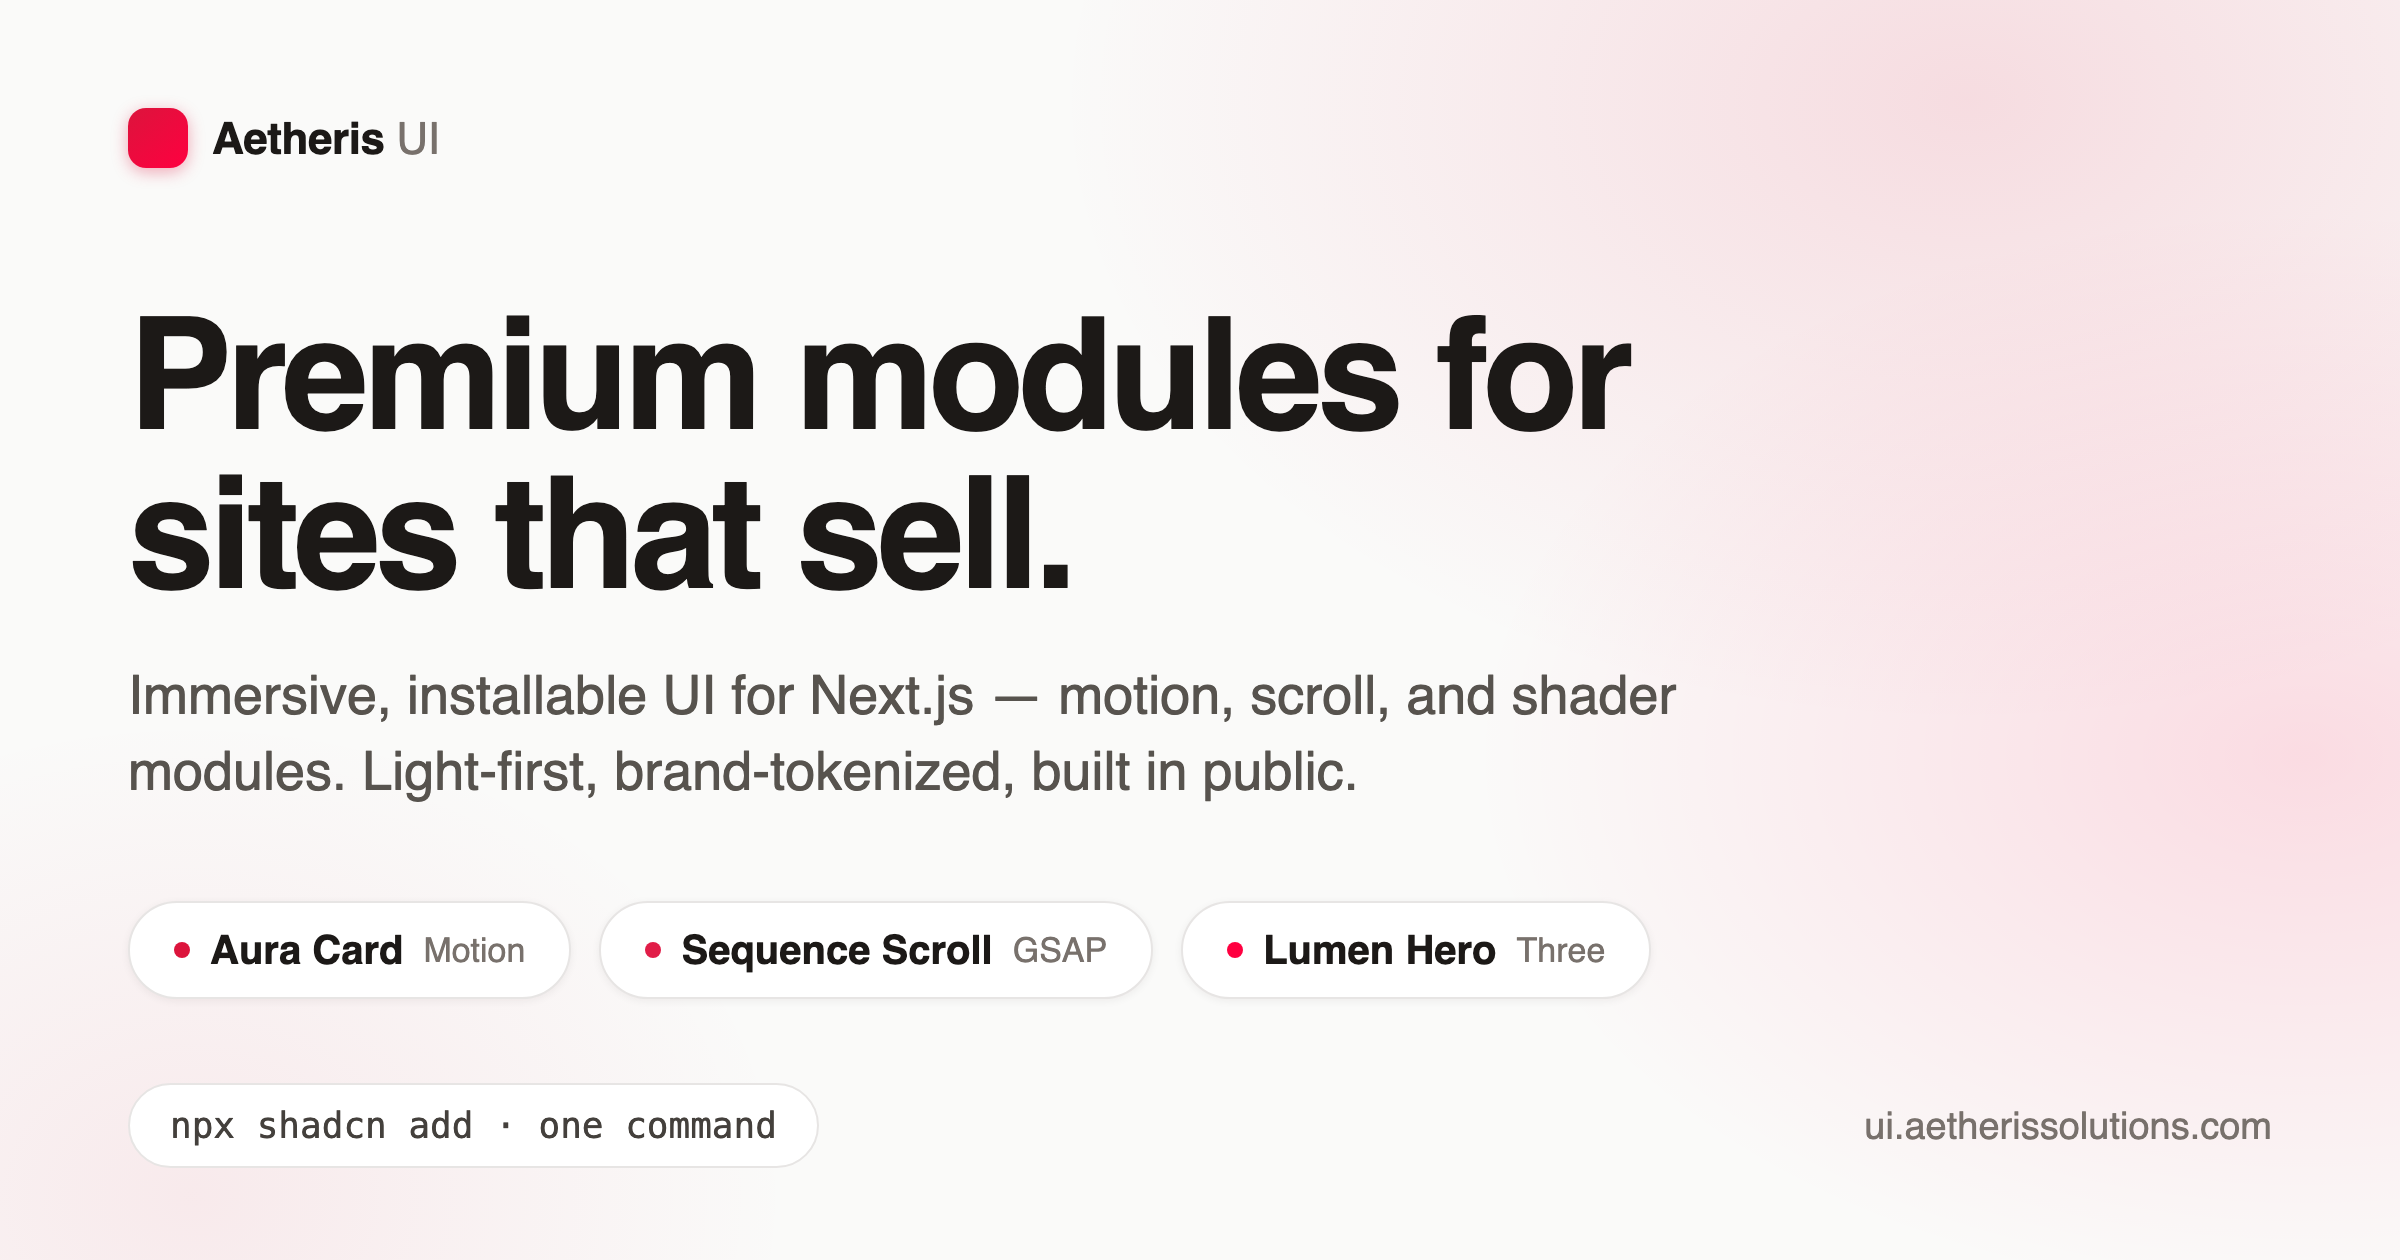
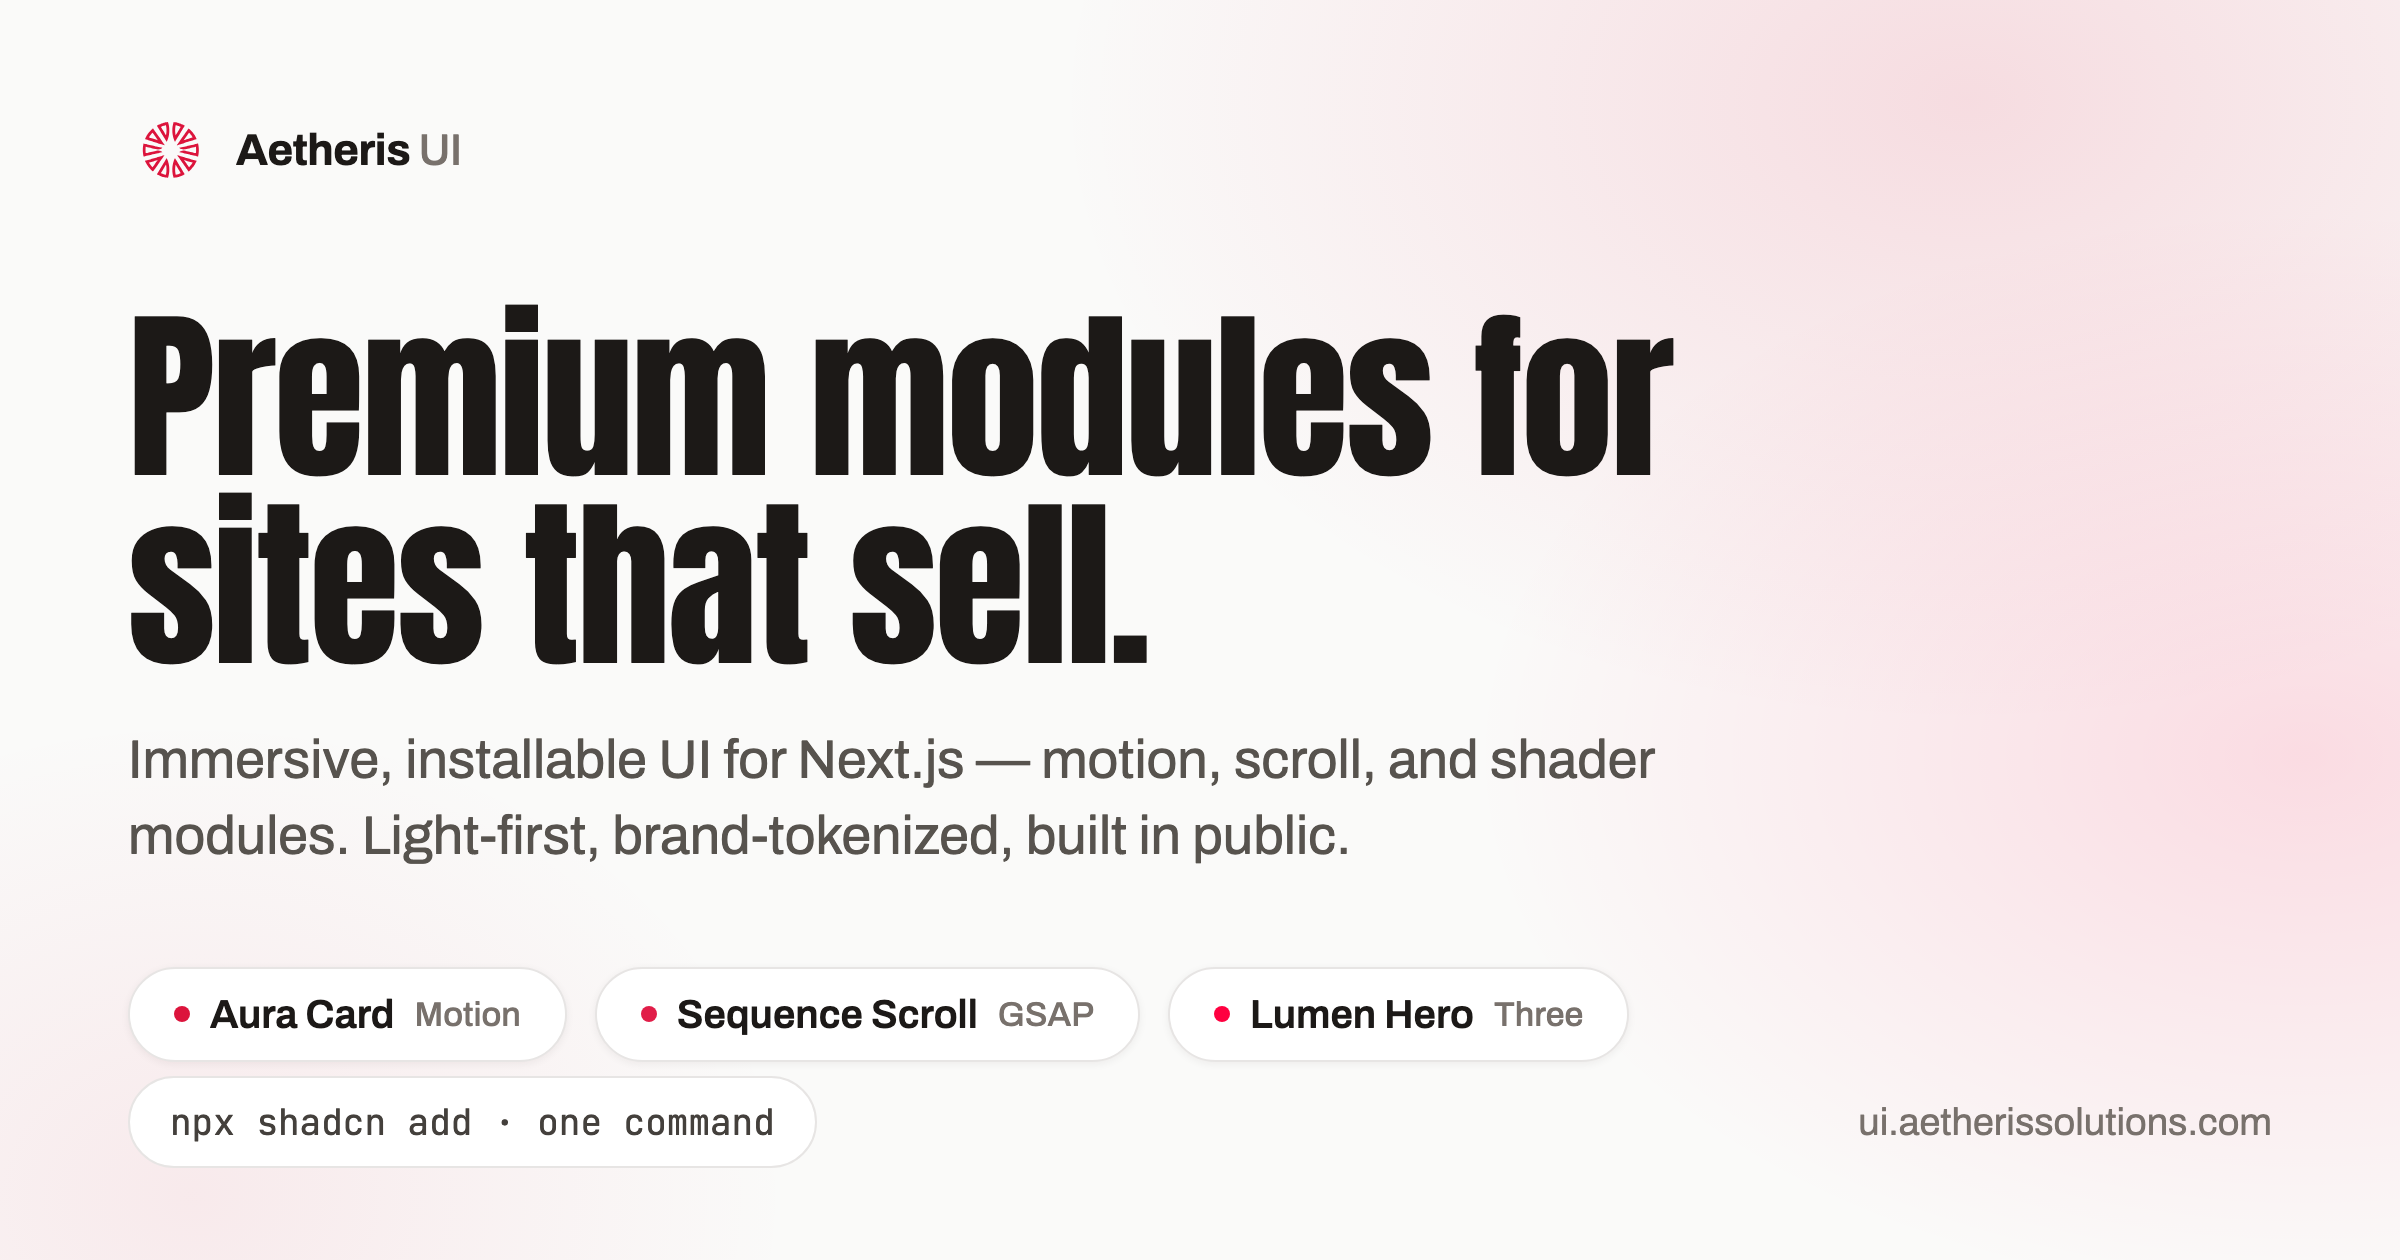
design: real Aetheris mark + brand type stack (Anton / Archivo / JetBrains Mono)
- Logo: the actual aetheris-mark.svg from the Aetheris site replaces the
  placeholder gradient square, CSS-masked so it paints in the live accent token
  instead of carrying a baked-in fill. 26px in the header (the radial petals go
  muddy smaller), 22px in the footer, and it rotates gently on hover.
- Type: adopts the brand's faces — Anton for display, Archivo for body/UI,
  JetBrains Mono for technical labels. Inter is gone.
- .aui-display carries the display voice; headlines and section headings share
  it so the type system reads as one family. Anton is single-weight, so the
  class pins weight 400 — pairing it with a font-weight utility would let the
  browser synthesise a fake bold and smear the condensed forms. Line-height 1.02
  because below ~1.0 Anton's tall caps collide across lines.
- OG card rebuilt on the same mark and faces.

Claude-Session: https://claude.ai/code/session_01SbJ8imE6eMLmkky5AgmYHH

diff --git a/app/globals.css b/app/globals.css
@@ -33,7 +33,8 @@
   --color-accent: var(--aui-accent);
   --color-surface: var(--aui-surface);
   --color-border: var(--aui-border);
-  --font-sans: var(--font-inter);
+  --font-sans: var(--font-body);
+  --font-display: var(--font-display);
   --font-mono: var(--font-mono-brand);
 }
 
@@ -59,7 +60,7 @@
     position: relative;
     background: var(--aui-bg);
     color: var(--aui-fg);
-    font-family: var(--font-inter), ui-sans-serif, system-ui, -apple-system, sans-serif;
+    font-family: var(--font-body), ui-sans-serif, system-ui, -apple-system, sans-serif;
     -webkit-font-smoothing: antialiased;
     text-rendering: optimizeLegibility;
   }
@@ -83,12 +84,6 @@
   ::selection {
     background: color-mix(in oklab, var(--aui-accent) 20%, transparent);
     color: var(--aui-fg);
-  }
-
-  /* Display type: tight tracking is what separates a premium headline from a
-     default one. Matches the Aetheris site's display scale. */
-  h1 {
-    letter-spacing: -0.035em;
   }
 
   h2,
@@ -230,4 +225,16 @@
   text-transform: uppercase;
   letter-spacing: 0.22em;
   color: var(--aui-muted);
+}
+
+/* Display voice — Anton, the Aetheris display face. Single weight by design, so
+   never pair it with a font-weight utility (the browser would synthesise a fake
+   bold and smear the condensed forms). */
+.aui-display {
+  font-family: var(--font-display), ui-sans-serif, system-ui, sans-serif;
+  font-weight: 400;
+  /* Anton's caps are tall and its descenders shallow; below ~1.0 the lines of a
+     two-line headline start to collide. */
+  line-height: 1.02;
+  letter-spacing: -0.012em;
 }

diff --git a/components/site/site-header.tsx b/components/site/site-header.tsx
@@ -29,12 +29,22 @@ export function SiteHeader() {
           className="group flex items-center gap-2.5 rounded-md"
           aria-label="Aetheris UI home"
         >
+          {/* The Aetheris mark, masked so it always paints in the live accent
+              token rather than carrying its own baked-in fill. */}
           <span
             aria-hidden
-            className="h-[18px] w-[18px] rounded-[6px] shadow-sm transition-transform duration-300 group-hover:scale-110"
+            className="h-[26px] w-[26px] shrink-0 transition-transform duration-700 group-hover:rotate-[30deg]"
             style={{
-              background:
-                "linear-gradient(140deg, var(--aui-accent), var(--aui-accent-2))",
+              backgroundColor: "var(--aui-accent)",
+              maskImage: "url(/aetheris-mark.svg)",
+              WebkitMaskImage: "url(/aetheris-mark.svg)",
+              maskSize: "contain",
+              WebkitMaskSize: "contain",
+              maskRepeat: "no-repeat",
+              WebkitMaskRepeat: "no-repeat",
+              maskPosition: "center",
+              WebkitMaskPosition: "center",
+              transitionTimingFunction: "var(--aui-ease)",
             }}
           />
           <span className="text-[15px] font-semibold tracking-tight">

diff --git a/app/page.tsx b/app/page.tsx
@@ -44,7 +44,7 @@ export default function Home() {
               Aetheris UI · component registry
             </span>
 
-            <h1 className="mt-6 text-5xl font-semibold leading-[1.03] tracking-tight md:text-7xl">
+            <h1 className="aui-display mt-6 text-[3.4rem] leading-[0.95] md:text-[5.5rem]">
               Premium modules for sites that sell.
             </h1>
 
@@ -112,7 +112,7 @@ export default function Home() {
       {/* Gallery */}
       <section id="modules" className="mx-auto max-w-6xl px-6 pb-28">
         <div className="flex items-end justify-between border-b pb-5">
-          <h2 className="text-2xl font-semibold tracking-tight">Modules</h2>
+          <h2 className="aui-display text-[1.7rem]">Modules</h2>
           <span className="text-sm" style={{ color: "var(--aui-muted)" }}>
             {items.length} available
           </span>
@@ -157,7 +157,7 @@ function EmptyState() {
           <path d="M12 12l8-4.5M12 12v9M12 12L4 7.5" />
         </svg>
       </div>
-      <h3 className="mt-5 text-lg font-semibold tracking-tight">
+      <h3 className="aui-display mt-5 text-[1.35rem]">
         The catalog is being built
       </h3>
       <p

diff --git a/app/layout.tsx b/app/layout.tsx
@@ -1,11 +1,21 @@
 import type { Metadata } from "next";
-import { Inter, JetBrains_Mono } from "next/font/google";
+import { Anton, Archivo, JetBrains_Mono } from "next/font/google";
 import "./globals.css";
 import { SiteHeader } from "@/components/site/site-header";
 import { SiteFooter } from "@/components/site/site-footer";
 
-const inter = Inter({
-  variable: "--font-inter",
+// The Aetheris brand faces: Anton for display, Archivo for body/UI, JetBrains
+// Mono for technical labels — the same stack the Aetheris site loads.
+const display = Anton({
+  weight: "400",
+  variable: "--font-display",
+  subsets: ["latin"],
+  display: "swap",
+});
+
+const body = Archivo({
+  weight: ["400", "500", "600", "700"],
+  variable: "--font-body",
   subsets: ["latin"],
   display: "swap",
 });
@@ -50,7 +60,7 @@ export default function RootLayout({
   return (
     <html
       lang="en"
-      className={`${inter.variable} ${jetbrainsMono.variable} h-full antialiased`}
+      className={`${display.variable} ${body.variable} ${jetbrainsMono.variable} h-full antialiased`}
     >
       <body className="min-h-full flex flex-col font-sans">
         <SiteHeader />

diff --git a/components/site/site-footer.tsx b/components/site/site-footer.tsx
@@ -9,10 +9,17 @@ export function SiteFooter() {
         <div className="flex items-center gap-2.5">
           <span
             aria-hidden
-            className="h-[18px] w-[18px] rounded-[6px]"
+            className="h-[22px] w-[22px] shrink-0"
             style={{
-              background:
-                "linear-gradient(140deg, var(--aui-accent), var(--aui-accent-2))",
+              backgroundColor: "var(--aui-accent)",
+              maskImage: "url(/aetheris-mark.svg)",
+              WebkitMaskImage: "url(/aetheris-mark.svg)",
+              maskSize: "contain",
+              WebkitMaskSize: "contain",
+              maskRepeat: "no-repeat",
+              WebkitMaskRepeat: "no-repeat",
+              maskPosition: "center",
+              WebkitMaskPosition: "center",
             }}
           />
           <span className="text-sm" style={{ color: "var(--aui-muted)" }}>

diff --git a/app/lab/page.tsx b/app/lab/page.tsx
@@ -40,7 +40,7 @@ export default function LabIndex() {
           The lab
         </span>
 
-        <h1 className="mt-6 text-4xl font-semibold tracking-tight md:text-5xl">
+        <h1 className="aui-display mt-6 text-[2.75rem] md:text-[3.5rem]">
           Rough edges on purpose.
         </h1>
 
@@ -64,7 +64,7 @@ export default function LabIndex() {
 
       <section className="mt-14">
         <div className="flex items-end justify-between border-b pb-5">
-          <h2 className="text-2xl font-semibold tracking-tight">Experiments</h2>
+          <h2 className="aui-display text-[1.7rem]">Experiments</h2>
           <span className="text-sm" style={{ color: "var(--aui-muted)" }}>
             {experiments.length} in the open
           </span>

diff --git a/app/docs/[module]/page.tsx b/app/docs/[module]/page.tsx
@@ -66,7 +66,7 @@ export default async function DocsPage({ params }: PageProps) {
           All modules
         </Link>
 
-        <h1 className="mt-5 text-4xl font-semibold tracking-tight">{item.title}</h1>
+        <h1 className="aui-display mt-5 text-[2.75rem]">{item.title}</h1>
 
         {doc.lead ? (
           <div
